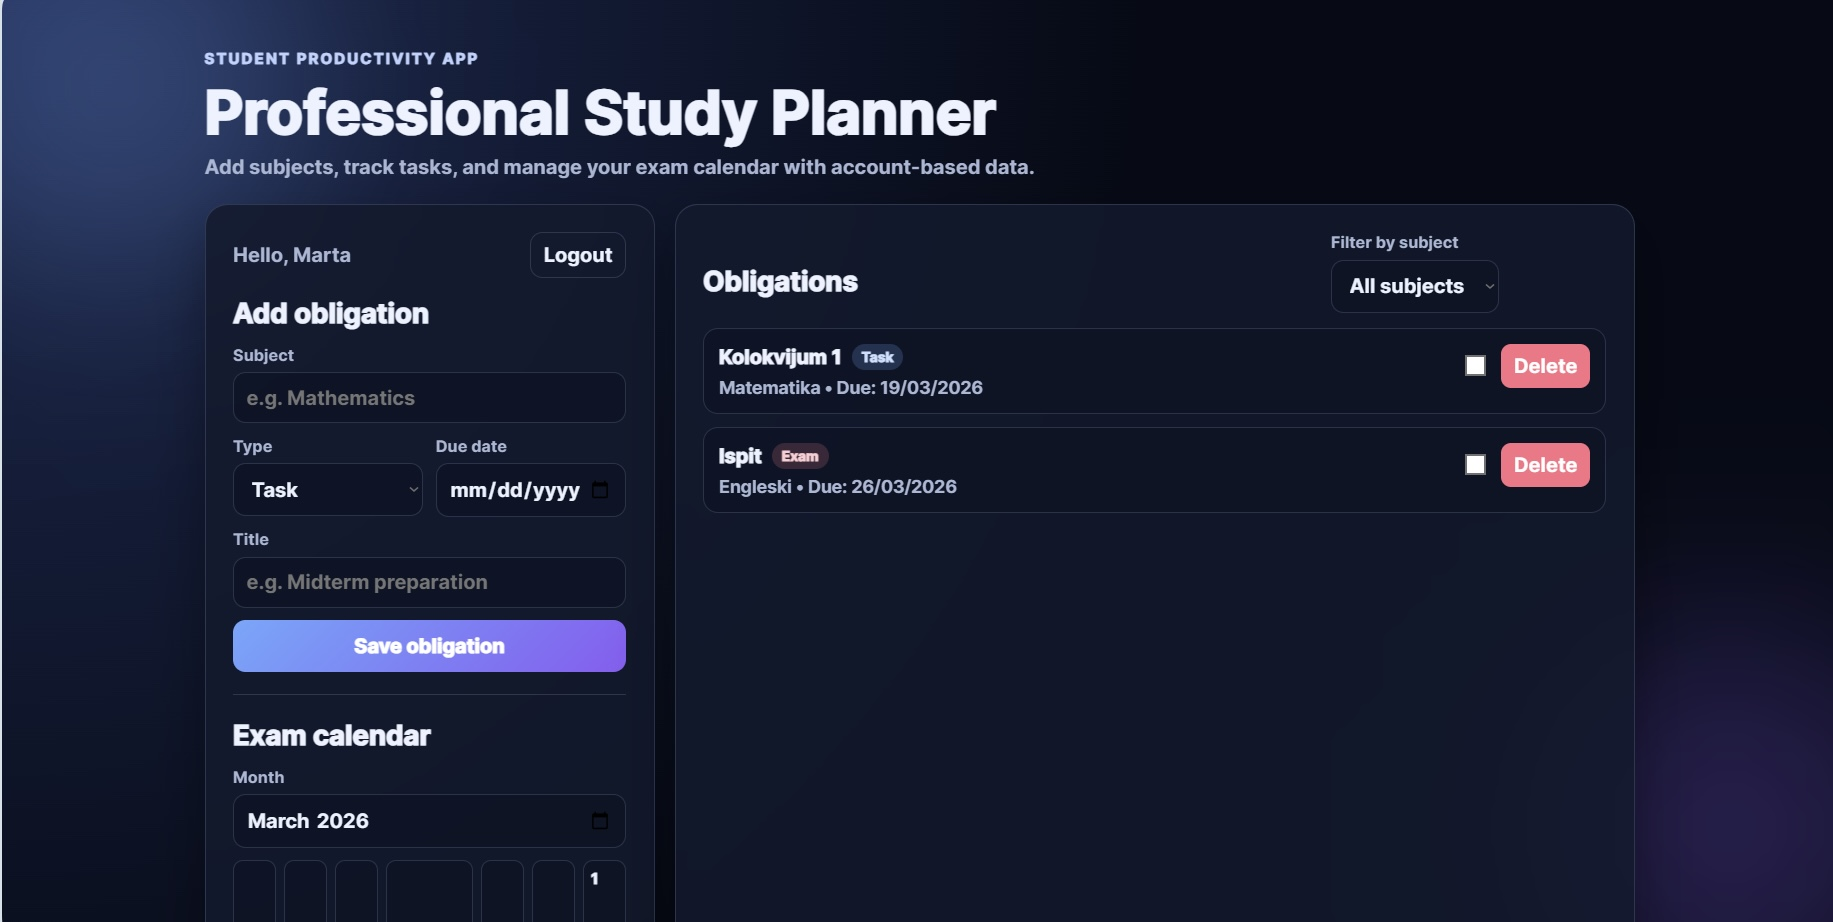
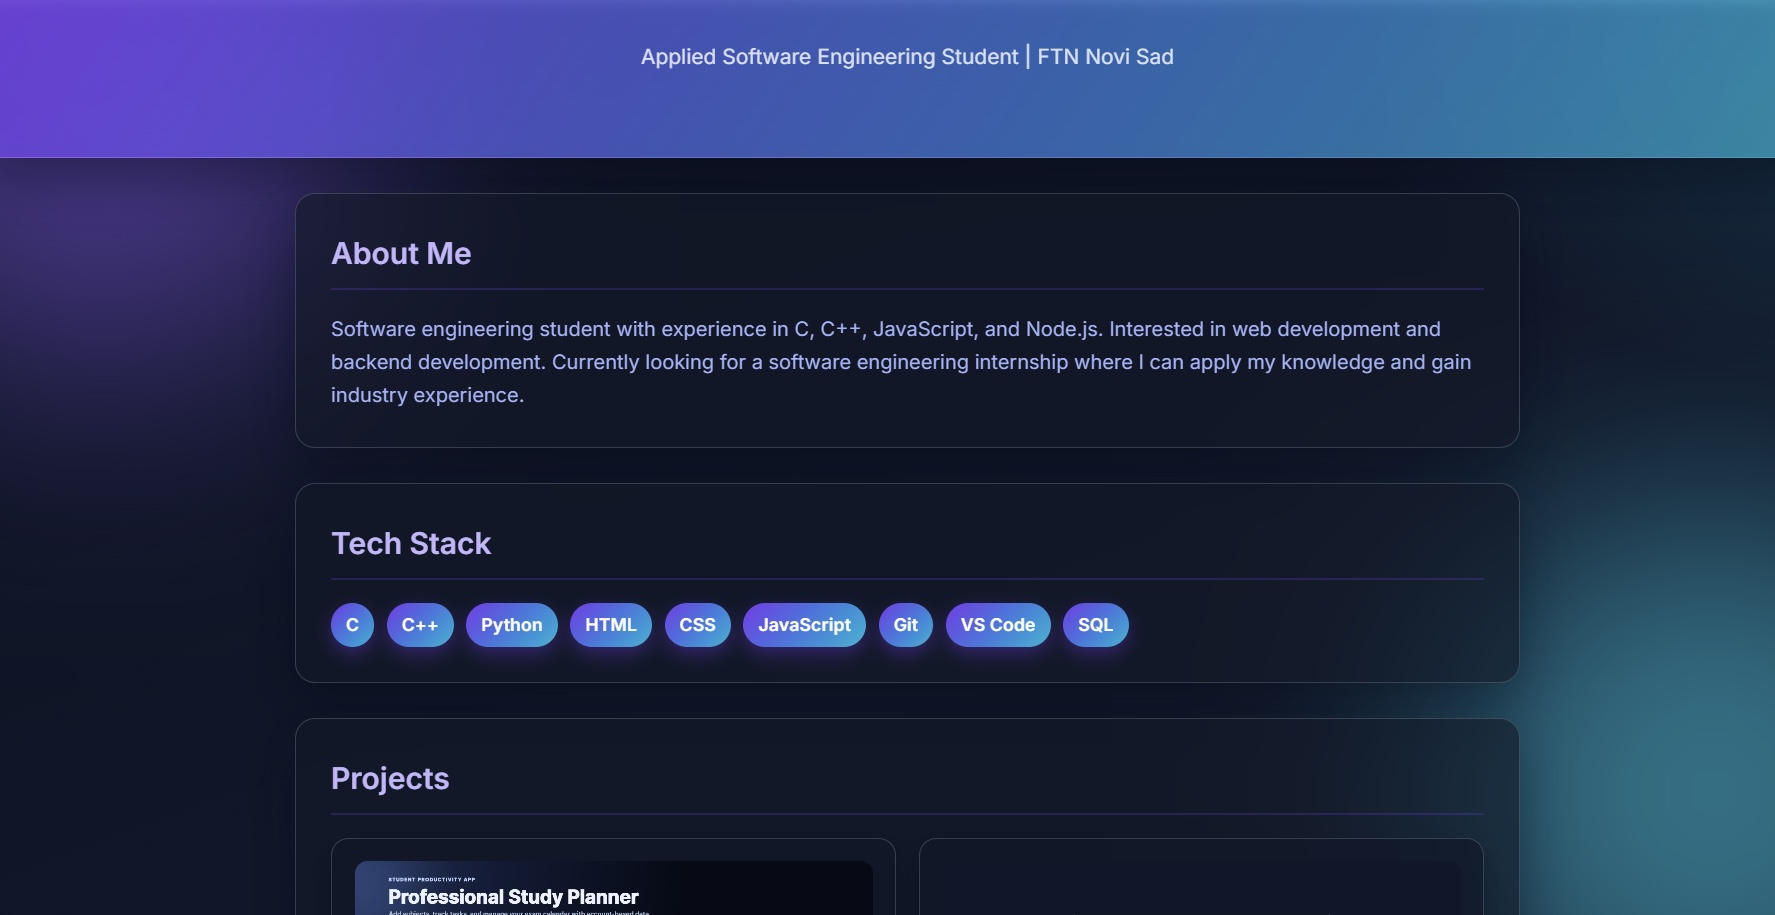
Refine portfolio header, project images, and README screenshot

diff --git a/index.html b/index.html
@@ -221,7 +221,6 @@
 <header>
   <h1>Kristina Došlov</h1>
   <p>Applied Software Engineering Student | FTN Novi Sad</p>
-  <p>Contact: available upon request | GitHub links</p>
 </header>
 
 <section id="about">
@@ -248,7 +247,7 @@
   <h2>Projects</h2>
   <div class="projects">
     <div class="project-card">
-      <img src="portfolio-screenshot.jpg" onerror="this.onerror=null;this.src='project-placeholder.svg';" alt="Study Planner Web App">
+      <img src="studyplanner-screenshot.jpg" onerror="this.onerror=null;this.src='project-placeholder.svg';" alt="Study Planner Web App">
       <h3>Study Planner Web App</h3>
       <p>Main project: a web application designed to help students organize subjects, exams, and study tasks. Includes task tracking and planning by subject for better time management.</p>
       <p>Technologies: HTML, CSS, JavaScript, Local Storage</p>

diff --git a/README.md b/README.md
@@ -13,6 +13,10 @@ technical skills and internship readiness.
 - CSS
 - JavaScript
 
+## Screenshot
+
+![Portfolio Screenshot](portfolio-screenshot.jpg)
+
 ## Sadržaj
 
 - Početna sekcija (hero)
